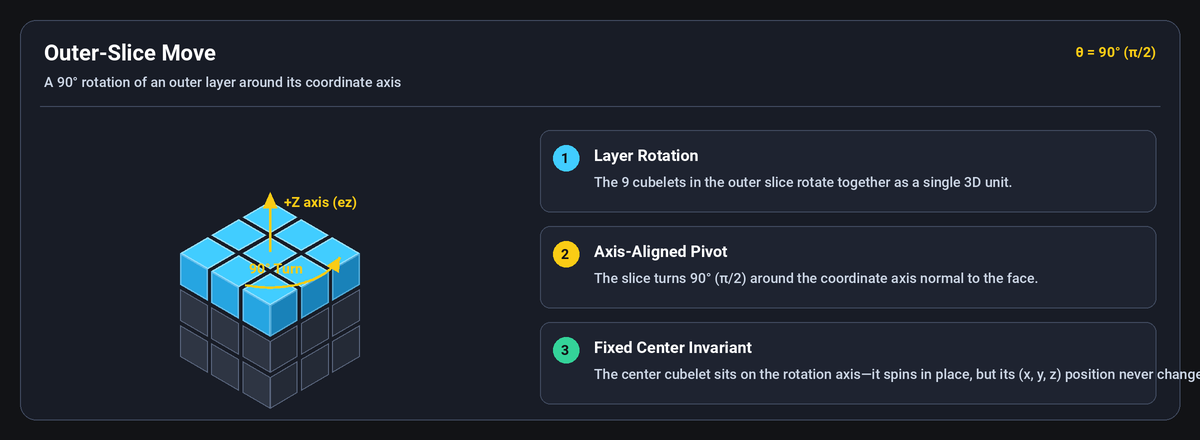
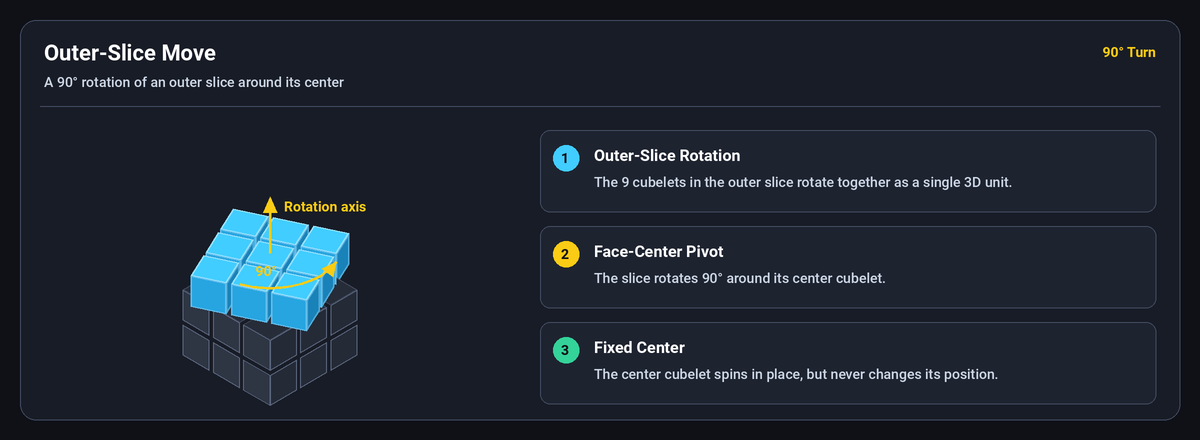
Polish diagrams: mid-move render, inventory badges, and purge synonyms/premature coordinates

diff --git a/scripts/generate_move.py b/scripts/generate_move.py
@@ -1,6 +1,7 @@
 #!/usr/bin/env python3
 """Generate a clean diagram illustrating a Move:
-A 90° outer-slice rotation around a coordinate axis, highlighting the fixed center invariant.
+A 90° outer-slice rotation shown mid-move around its center cubelet.
+No premature Euclidean space or radian concepts; canonical terminology only.
 """
 
 import math
@@ -17,7 +18,7 @@ SCALE = 2
 SW = WIDTH * SCALE
 SH = HEIGHT * SCALE
 
-img = Image.new("RGBA", (SW, SH), (18, 19, 22, 255))
+img = Image.new("RGBA", (SW, SH), (15, 17, 23, 255))
 draw = ImageDraw.Draw(img)
 
 # Fonts
@@ -57,93 +58,134 @@ def project_pt(x, y, z, cx, cy, sz):
     sy = cy + (x + y) * sin30 * sz - z * sz
     return (sx, sy)
 
-def draw_cubelet_face(draw, i, j, k, face_type, cx, cy, sz, fill, outline, width=1):
-    gap = 0.06
-    r = 0.5 - gap
-    if face_type == "top":
-        p1 = project_pt(i - r, j - r, k + r, cx, cy, sz)
-        p2 = project_pt(i + r, j - r, k + r, cx, cy, sz)
-        p3 = project_pt(i + r, j + r, k + r, cx, cy, sz)
-        p4 = project_pt(i - r, j + r, k + r, cx, cy, sz)
-    elif face_type == "front":
-        p1 = project_pt(i + r, j - r, k - r, cx, cy, sz)
-        p2 = project_pt(i + r, j + r, k - r, cx, cy, sz)
-        p3 = project_pt(i + r, j + r, k + r, cx, cy, sz)
-        p4 = project_pt(i + r, j - r, k + r, cx, cy, sz)
-    elif face_type == "right":
-        p1 = project_pt(i - r, j + r, k - r, cx, cy, sz)
-        p2 = project_pt(i + r, j + r, k - r, cx, cy, sz)
-        p3 = project_pt(i + r, j + r, k + r, cx, cy, sz)
-        p4 = project_pt(i - r, j + r, k + r, cx, cy, sz)
-    else:
-        return
-    draw.polygon([p1, p2, p3, p4], fill=fill, outline=outline, width=width)
-
 # Outer card container
 pad = 20 * SCALE
 draw.rounded_rectangle([pad, pad, SW - pad, SH - pad], radius=16 * SCALE, fill=C_CARD_BG, outline=C_CARD_BORDER, width=1 * SCALE)
 
 # Header
 draw.text((pad + 24 * SCALE, pad + 20 * SCALE), "Outer-Slice Move", fill=C_TEXT_TITLE, font=font_title)
-draw.text((pad + 24 * SCALE, pad + 54 * SCALE), "A 90° rotation of an outer layer around its coordinate axis", fill=C_TEXT_SUB, font=font_sub)
+draw.text((pad + 24 * SCALE, pad + 54 * SCALE), "A 90° rotation of an outer slice around its center", fill=C_TEXT_SUB, font=font_sub)
 
-# Badge in top-right
-badge_text = "θ = 90° (π/2)"
+# Badge in top-right: purely "90° Turn" (no radians, no pi/2)
+badge_text = "90° Turn"
 badge_w = font_stat.getbbox(badge_text)[2]
 draw.text((SW - pad - badge_w - 24 * SCALE, pad + 24 * SCALE), badge_text, fill=C_GOLD, font=font_stat)
 
 # Divider line
 draw.line([(pad + 20 * SCALE, pad + 86 * SCALE), (SW - pad - 20 * SCALE, pad + 86 * SCALE)], fill=C_CARD_BORDER, width=1 * SCALE)
 
-# 3D Render on left side
+# 3D Render on left side: Top slice shown mid-move (turned 25 degrees)
 cube_cx = pad + 250 * SCALE
 cube_cy = pad + 285 * SCALE
-cube_sz = 36 * SCALE
+cube_sz = 35 * SCALE
 
-cubelets = []
+gap = 0.06
+r = 0.5 - gap
+phi = math.radians(25)  # Mid-move rotation angle
+
+quads = []
+
+# 1. Stationary bottom slices (k = -1 and k = 0)
 for i in [-1, 0, 1]:
     for j in [-1, 0, 1]:
-        for k in [-1, 0, 1]:
-            cubelets.append((i, j, k))
-cubelets.sort(key=lambda c: (c[0] + c[1] + c[2], c[2], c[0], c[1]))
+        for k in [-1, 0]:
+            if k == 0:
+                pts = [
+                    (i - r, j - r, k + r),
+                    (i + r, j - r, k + r),
+                    (i + r, j + r, k + r),
+                    (i - r, j + r, k + r),
+                ]
+                depth = sum(x + y + z for x, y, z in pts) / 4.0
+                quads.append((depth, pts, (38, 44, 56), (65, 75, 95), 1 * SCALE))
 
-for i, j, k in cubelets:
-    is_top_slice = (k == 1)
+            if i == 1:
+                pts = [
+                    (i + r, j - r, k - r),
+                    (i + r, j + r, k - r),
+                    (i + r, j + r, k + r),
+                    (i + r, j - r, k + r),
+                ]
+                depth = sum(x + y + z for x, y, z in pts) / 4.0
+                quads.append((depth, pts, C_DARK_FRONT, C_DARK_EDGE, 1 * SCALE))
 
-    if is_top_slice:
-        fill_top = C_ACCENT
-        fill_front = C_ACCENT_FRONT
-        fill_right = C_ACCENT_RIGHT
-        edge_top = (150, 225, 255)
-        edge_front = (100, 190, 235)
-        edge_right = (80, 170, 215)
-        w_top = int(1.5 * SCALE)
-        w_front = int(1.5 * SCALE)
-        w_right = int(1.5 * SCALE)
-    else:
-        fill_top = C_DARK_TOP
-        fill_front = C_DARK_FRONT
-        fill_right = C_DARK_RIGHT
-        edge_top = C_DARK_EDGE
-        edge_front = C_DARK_EDGE
-        edge_right = C_DARK_EDGE
-        w_top = 1 * SCALE
-        w_front = 1 * SCALE
-        w_right = 1 * SCALE
+            if j == 1:
+                pts = [
+                    (i - r, j + r, k - r),
+                    (i + r, j + r, k - r),
+                    (i + r, j + r, k + r),
+                    (i - r, j + r, k + r),
+                ]
+                depth = sum(x + y + z for x, y, z in pts) / 4.0
+                quads.append((depth, pts, C_DARK_RIGHT, C_DARK_EDGE, 1 * SCALE))
 
-    if k == 1:
-        draw_cubelet_face(draw, i, j, k, "top", cube_cx, cube_cy, cube_sz, fill_top, edge_top, w_top)
-    if i == 1:
-        draw_cubelet_face(draw, i, j, k, "front", cube_cx, cube_cy, cube_sz, fill_front, edge_front, w_front)
-    if j == 1:
-        draw_cubelet_face(draw, i, j, k, "right", cube_cx, cube_cy, cube_sz, fill_right, edge_right, w_right)
+# 2. Rotated top slice (k = 1)
+c_p = math.cos(phi)
+s_p = math.sin(phi)
 
-# Axis line (+Z) piercing through center cubelet (0, 0, 1)
+for i in [-1, 0, 1]:
+    for j in [-1, 0, 1]:
+        k = 1
+        # Top face (+Z)
+        pts_local = [
+            (i - r, j - r, k + r),
+            (i + r, j - r, k + r),
+            (i + r, j + r, k + r),
+            (i - r, j + r, k + r),
+        ]
+        pts_rot = [(x * c_p - y * s_p, x * s_p + y * c_p, z) for x, y, z in pts_local]
+        depth = sum(x + y + z for x, y, z in pts_rot) / 4.0
+        quads.append((depth, pts_rot, C_ACCENT, (150, 225, 255), int(1.5 * SCALE)))
+
+        # Front face
+        pts_local_f = [
+            (i + r, j - r, k - r),
+            (i + r, j + r, k - r),
+            (i + r, j + r, k + r),
+            (i + r, j - r, k + r),
+        ]
+        pts_rot_f = [(x * c_p - y * s_p, x * s_p + y * c_p, z) for x, y, z in pts_local_f]
+        if c_p + s_p > 0:
+            depth = sum(x + y + z for x, y, z in pts_rot_f) / 4.0
+            quads.append((depth, pts_rot_f, C_ACCENT_FRONT, (100, 190, 235), int(1.5 * SCALE)))
+
+        # Right face
+        pts_local_r = [
+            (i - r, j + r, k - r),
+            (i + r, j + r, k - r),
+            (i + r, j + r, k + r),
+            (i - r, j + r, k + r),
+        ]
+        pts_rot_r = [(x * c_p - y * s_p, x * s_p + y * c_p, z) for x, y, z in pts_local_r]
+        if c_p - s_p > 0:
+            depth = sum(x + y + z for x, y, z in pts_rot_r) / 4.0
+            quads.append((depth, pts_rot_r, C_ACCENT_RIGHT, (80, 170, 215), int(1.5 * SCALE)))
+
+        # Back face if turned enough to expose
+        if s_p - c_p > 0:
+            pts_local_b = [
+                (i - r, j - r, k - r),
+                (i + r, j - r, k - r),
+                (i + r, j - r, k + r),
+                (i - r, j - r, k + r),
+            ]
+            pts_rot_b = [(x * c_p - y * s_p, x * s_p + y * c_p, z) for x, y, z in pts_local_b]
+            depth = sum(x + y + z for x, y, z in pts_rot_b) / 4.0
+            quads.append((depth, pts_rot_b, (20, 110, 160), (60, 150, 195), int(1.5 * SCALE)))
+
+# Sort quads back to front by depth
+quads.sort(key=lambda q: q[0])
+
+for depth, pts_rot, fill, edge, w in quads:
+    poly = [project_pt(x, y, z, cube_cx, cube_cy, cube_sz) for x, y, z in pts_rot]
+    draw.polygon(poly, fill=fill, outline=edge, width=w)
+
+# Rotation axis line piercing through center cubelet (clean axis, no coordinate labels)
 p_axis_bot = project_pt(0, 0, 1.48, cube_cx, cube_cy, cube_sz)
-p_axis_top = project_pt(0, 0, 2.8, cube_cx, cube_cy, cube_sz)
+p_axis_top = project_pt(0, 0, 2.75, cube_cx, cube_cy, cube_sz)
 draw.line([p_axis_bot, p_axis_top], fill=C_GOLD, width=int(2.5 * SCALE))
 
-# Axis arrowhead (+Z)
+# Axis arrowhead
 ax_x, ax_y = p_axis_top
 draw.polygon([
     (ax_x, ax_y - 12 * SCALE),
@@ -151,11 +193,12 @@ draw.polygon([
     (ax_x + 7 * SCALE, ax_y + 4 * SCALE)
 ], fill=C_GOLD)
 
-draw.text((ax_x + 14 * SCALE, ax_y - 10 * SCALE), "+Z axis (ez)", fill=C_GOLD, font=font_stat)
+# Label: purely "Rotation axis"
+draw.text((ax_x + 14 * SCALE, ax_y - 10 * SCALE), "Rotation axis", fill=C_GOLD, font=font_stat)
 
-# Curved rotation arrow orbiting the top face around the Z-axis
+# Curved rotation arrow orbiting the top face around the axis
 arc_pts = []
-for a_deg in range(25, 120, 2):
+for a_deg in range(20, 115, 2):
     rad = math.radians(a_deg)
     x = 1.65 * math.cos(rad)
     y = 1.65 * math.sin(rad)
@@ -178,29 +221,29 @@ if L > 0:
     ah2 = (tip[0] - 14 * SCALE * ux - 7 * SCALE * nx, tip[1] - 14 * SCALE * uy - 7 * SCALE * ny)
     draw.polygon([tip, ah1, ah2], fill=C_GOLD)
 
-# Rotation angle label next to arc
+# Label on arc: purely "90°"
 lbl_pt = arc_pts[len(arc_pts) // 2]
-draw.text((lbl_pt[0] - 55 * SCALE, lbl_pt[1] - 22 * SCALE), "90° Turn", fill=C_GOLD, font=font_stat)
+draw.text((lbl_pt[0] - 42 * SCALE, lbl_pt[1] - 22 * SCALE), "90°", fill=C_GOLD, font=font_stat)
 
-# Right side: 3 structured concept callouts
+# Right side: 3 structured concept callouts (canonical terminology only, zero premature coordinate space)
 cx_right = pad + 520 * SCALE
 callouts = [
     {
         "num": "1",
-        "title": "Layer Rotation",
+        "title": "Outer-Slice Rotation",
         "body": "The 9 cubelets in the outer slice rotate together as a single 3D unit.",
         "color": C_ACCENT,
     },
     {
         "num": "2",
-        "title": "Axis-Aligned Pivot",
-        "body": "The slice turns 90° (π/2) around the coordinate axis normal to the face.",
+        "title": "Face-Center Pivot",
+        "body": "The slice rotates 90° around its center cubelet.",
         "color": C_GOLD,
     },
     {
         "num": "3",
-        "title": "Fixed Center Invariant",
-        "body": "The center cubelet sits on the rotation axis—it spins in place, but its (x, y, z) position never changes.",
+        "title": "Fixed Center",
+        "body": "The center cubelet spins in place, but never changes its position.",
         "color": C_GREEN,
     },
 ]

diff --git a/scripts/generate_cubelet_types.py b/scripts/generate_cubelet_types.py
@@ -225,7 +225,7 @@ panels = [
     {
         "title": "Corner",
         "sub": "Vertex cubelet",
-        "stat": "3 facelets",
+        "stat": "1 of 8 corners",
         "stat_col": C_GOLD,
         "mode": "corner",
         "desc": "Part of 3 faces",
@@ -233,7 +233,7 @@ panels = [
     {
         "title": "Edge",
         "sub": "Border cubelet",
-        "stat": "2 facelets",
+        "stat": "1 of 12 edges",
         "stat_col": C_ACCENT,
         "mode": "edge",
         "desc": "Part of 2 faces",
@@ -241,7 +241,7 @@ panels = [
     {
         "title": "Center",
         "sub": "Face-center cubelet",
-        "stat": "1 facelet",
+        "stat": "1 of 6 centers",
         "stat_col": C_WHITE,
         "mode": "center",
         "desc": "Part of 1 face",
@@ -249,7 +249,7 @@ panels = [
     {
         "title": "Core",
         "sub": "Interior cubelet",
-        "stat": "0 facelets",
+        "stat": "1 of 1 core",
         "stat_col": C_PURPLE,
         "mode": "core",
         "desc": "Part of 0 faces",

diff --git a/scripts/generate_anatomy.py b/scripts/generate_anatomy.py
@@ -204,7 +204,7 @@ panels = [
     },
     {
         "title": "Slice",
-        "sub": "3D layer of cubelets",
+        "sub": "3D slice of 9 cubelets",
         "stat": "1 of 9 slices",
         "stat_col": C_ACCENT,
         "mode": "slice",

diff --git a/README.md b/README.md
@@ -30,7 +30,7 @@ The payoff of this linear algebra formulation is **radical simplicity**: the ent
 </p>
 
 <p align="center">
-  <img src="img/outer-slice-move.png" alt="Outer-Slice Move: A 90° rotation of an outer layer around a coordinate axis" width="1000">
+  <img src="img/outer-slice-move.png" alt="Outer-Slice Move: A 90° rotation of an outer slice around its center" width="1000">
 </p>
 
 > [!TIP]
@@ -50,7 +50,7 @@ At first glance, representing a Rubik's cube might seem straightforward: track 5
 
 Instead of 54 independent stickers, the puzzle is composed of **27 cubelets** arranged in a $3 \times 3 \times 3$ grid. 
 
-Look inside a physical Rubik's cube, and its defining structural backbone becomes immediately apparent: a rigid **3-dimensional cross** connecting the internal core to the six face centers along the coordinate axes. When you turn an outer slice, the layer rotates *around* an arm of this cross.
+Look inside a physical Rubik's cube, and its defining structural backbone becomes immediately apparent: a rigid **3-dimensional cross** connecting the internal core to the six face centers along the coordinate axes. When you turn an outer slice, it rotates *around* an arm of this cross.
 
 By anchoring our origin at the core $(0, 0, 0)$, this 3D cross becomes our Cartesian coordinate frame:
 
